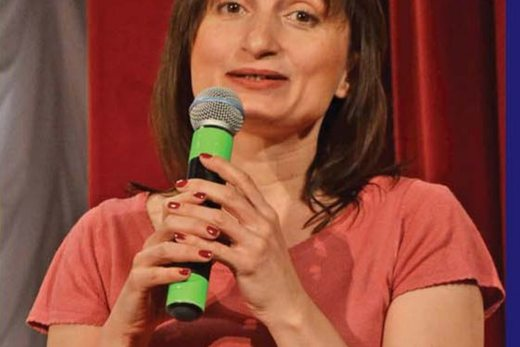
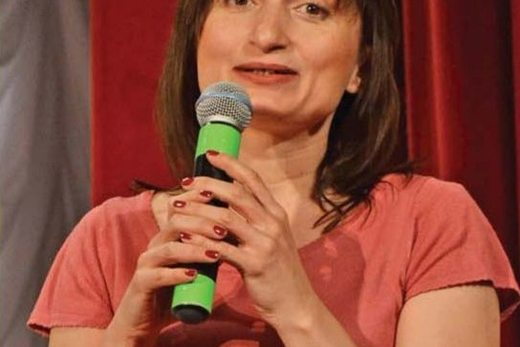
Верифікація ДентАрт 3(72)/2013: виправлено 7 матеріалів
🔴 Зображення з вкрапленим текстом:
- Гюрель: hero був рендер-кропом із впеченим обрізаним заголовком
  («Доктор / «Будьт / і це зр») — замінено чистим витягом растру,
  мініатюру th-540 перегенеровано.
- Алханішвілі: у кадр «Приз» потрапив сам підпис (текст лежить
  усередині rect зображення) — перерізано нижче тексту.

🔴 Фото не на своєму місці:
- Семінар: зріз зубів стояв у секції Фали з підписом «Мікрохірургія
  пародонту», хоча належить секції Болячина — переміщено, alt
  виправлено; слайд «Gallilean Optics» мав чужий alt «Ергономіка».

🔴 Вигадані/зіпсовані alt:
- Алханішвілі: 5 alt стверджували «діти з розладами аутистичного
  спектру», хоча на фото дорослі пацієнти — замінено на нейтральні.
- Пандурич: один alt обрізаний до «і 12. Епітеліальна тканина…»,
  другий порожній — відновлено.

Дрібніше: Алієв — кирилична «А» всередині латинського «Аdentice»;
Дєньга — переносні дефіси «алерго-анамнезом»/«спектро-колориметричні»;
Dent Office і «Пам'яті Ольги Жаури» — зрізано кольорові смужки фону
на кадрах, th-535 перегенеровано.

Заголовок Гюреля «чесні і відкриті» звірено: так на шпальті і в тілі
інтерв'ю; «відверті» стоїть лише у змісті — розбіжність самого журналу.

diff --git a/statti-lazarieva-mizhnarodnyi-vesnianyi-seminar-dentart-2013.html b/statti-lazarieva-mizhnarodnyi-vesnianyi-seminar-dentart-2013.html
@@ -195,7 +195,7 @@ fbq('track', 'PageView');
 <p>На думку лектора, найефективнішим є використання операційного мікроскопа. Автор надає перевагу мікроскопам з оптичною системою Галілея, а це два паралельних незалежних світлових пучки, що плавно змінюють масштаб зображення, сформованого одним об'єктивом. Система вирізняється високою якістю зображення, гарантуючи високу роздільну здатність. І відстань між лінзою та об'єктивом може бути чітко спроектована щодо лікаря.</p>
 <div class="gal">
   <figure><img class="aimg" src="images/sem72-003.jpg" width="586" height="323" loading="lazy" alt="Ергономіка роботи з операційним мікроскопом"></figure>
-  <figure><img class="aimg" src="images/sem72-004.jpg" width="539" height="345" loading="lazy" alt="Ергономіка роботи з операційним мікроскопом"></figure>
+  <figure><img class="aimg" src="images/sem72-004.jpg" width="539" height="345" loading="lazy" alt="Галілеєва оптика операційного мікроскопа"></figure>
 </div>
 <p>Прогрес у використання мікроскопа вніс Гаррі Карр, засновник Тихоокеанського ендодонтичного дослідницького товариства. У 1995 році він розробив правила ергономічної роботи з мікроскопом у чотири руки.</p>
 <p>Мікроскопи можуть бути підлогові, настінні і зі стельовим кріпленням. З підлоговим мікроскопом робота буде менш ергономічною через обмежену мобільність персоналу і устаткування. Доктор Вебер використовує мікроскоп компанії Глобал з необхідними допрацюваннями для асистента, похилим блоком і адаптером для відеозйомки і фотографування.</p>
@@ -213,7 +213,6 @@ fbq('track', 'PageView');
 <p>Використовуючи мікроскоп у хірургічній практиці, можна видаляти під візуальним контролем грануляційну тканину, проводити кюретаж, очищати поверхню операційного поля, ретроградно пломбувати кореневий канал, при резекції верхівки кореня накладати мінімально-інвазивні шви і багато що інше. Лектор продемонстрував кілька клінічних випадків з використанням мікроскопа. Один з них — операція резекції верхівки кореня. На думку доповідача, необхідно проводити зріз верхівки кореня не менше 3 мм, оскільки в цій зоні спостерігається найбільша кількість латеральних канальців, які іноді неможливо побачити навіть під збільшенням. За літературними даними, рекомендовано видаляти ці 3 мм для запобігання ускладненням. Використання мікроскопа і ультразвуку дозволяє максимально точно провести ретроградну обтурацію магістрального каналу МТА. Далі під збільшенням дефект заповнюється кістковопластичним матеріалом і операційна рана закривається стимулятором регенерації — центрифугованою тромбоцитарною масою крові пацієнта. Уже через місяць можна відзначити добрий результат загоєння, і його досягнуто завдяки використанню мікроскопа.</p>
 <div class="gal">
   <figure><img class="aimg" src="images/sem72-006.jpg" width="511" height="374" loading="lazy" alt="Мікрохірургія пародонту зі збільшенням"></figure>
-  <figure><img class="aimg" src="images/sem72-008.jpg" width="501" height="298" loading="lazy" alt="Мікрохірургія пародонту зі збільшенням"></figure>
 </div>
 <p>Клаптеві операції при рецесії ясен навколо зубів та імплантатів, за відсутності зубів, при поглибленні переддвер'я, укороченні вуздечки, подовженні коронкової частини зубів, відкриванні зуба, що не прорізався, треба виконувати з найкращою візуалізацією. За даними клінічних досліджень, кожен циркулярний розріз навіть при здоровому пародонті призводить до втрати 1 мм м'яких тканин. Оптимальних естетичних результатів при хірургічних втручаннях з тонким фенотипом ясен можна досягти лише з найкращою візуалізацією, малоінвазивністю розрізів і точністю швів. І якщо висока прогнозованість результату є нашою метою, використання мікроскопа — одна з важливих умов.</p>
 <h2>Мінімально-інвазивний ендодонтичний доступ у зубах зі складною анатомією</h2>
@@ -222,6 +221,9 @@ fbq('track', 'PageView');
 </div>
 <p>«Коли я почав працювати зі збільшенням — я почав бігати на роботу підстрибом. Тому що мені було цікаво», — почав свою лекцію Олексій БОЛЯЧИН (Москва, Росія), знайомий нашим читачам численними публікаціями і лекціями на семінарах ДентАрт, член Російської ендодонтичної асоціації, Американської ендодонтичної асоціації, Європейської асоціації дентальної мікроскопії, головний редактор журналу «Эндодонтия».</p>
 <p>Збільшення і освітлення відіграють важливу роль в ендодонтичному лікуванні. На сьогодні саме технічне забезпечення і оснащення дає нам певні можливості. Лікар-ендодонтист повинен мати наконечник з підвищуючим редуктором 5:1, оскільки доступ за допомогою турбінного наконечника виконується на швидкості 200 тисяч оборотів і неконтрольовано, і якщо оператор недостатньо досвідчений і не знайомий з анатомією, легко зробити перфорацію. Не можна використовувати турбінний наконечник з бором на довгій ніжці, це призводить до великої втрати тканин зуба. Бори Мюнс Дискавері Бурс/Munce Discovery Burs з робочою довжиною 34 мм можна використовувати в складних клінічних випадках для створення доступу або виконання яких-небудь складних маніпуляцій. Для знаходження устя або додаткових кореневих каналів потрібні два типи зондів: DG-16, D-17. Також необхідно використовувати високоякісні дзеркала, причому ставитися до них як до витратного матеріалу, вчасно змінюючи на нові.</p>
+<div class="gal">
+  <figure><img class="aimg" src="images/sem72-008.jpg" width="501" height="298" loading="lazy" alt="Ендодонтичний доступ під збільшенням"></figure>
+</div>
 <p>Існує кілька головних правил створення доступу до кореневих каналів:</p>
 <ol class="tech">
 <li>Правило колірної зміни — дно завжди темніше, ніж стінки порожнини зуба.</li>

diff --git a/statti-alkhanishvili-stomatolohichne-likuvannia-ditei-autystychnyi-spektr.html b/statti-alkhanishvili-stomatolohichne-likuvannia-ditei-autystychnyi-spektr.html
@@ -192,17 +192,17 @@ fbq('track', 'PageView');
 </ol>
 <p>Прикметно, що кожен випадок РАС має свої власні клінічні характеристики і є абсолютно індивідуальним. Не існує двох людей з РАС, які мали б ідентичні характеристики. Симптоми і когнітивний дефіцит мають варіації залежно від віку пацієнта, серйозності хвороби і її процесу. Причина РАС невідома, хоча часто її зв'язують з порушеннями обміну речовин, стресом у період вагітності і т. д. РАС можна виявити в усіх расах і культурах, і в 4 рази частіше у хлопчиків, ніж у дівчаток.<sup>11</sup> У 2008-2009 роках Асоціація неврологів і нейрохірургів Грузії за фінансової підтримки Грузинського національного наукового фонду провела дослідження «Розлади аутистичного спектру в Грузії: діагностика і епідеміологія». Попереднє дослідження засвідчило, що грузинські епідеміологічні дані не відрізняються від даних з решти світу:<sup>6</sup> поширеність хвороби вища лише на 0,89%.</p>
 <div class="gal g4">
-  <figure><img class="aimg" src="images/aut72-001.jpg" width="498" height="377" loading="lazy" alt="Стоматологічний прийом дитини з розладами аутистичного спектру"></figure>
-  <figure><img class="aimg" src="images/aut72-002.jpg" width="499" height="380" loading="lazy" alt="Стоматологічний прийом дитини з розладами аутистичного спектру"></figure>
-  <figure><img class="aimg" src="images/aut72-003.jpg" width="499" height="380" loading="lazy" alt="Стоматологічний прийом дитини з розладами аутистичного спектру"></figure>
-  <figure><img class="aimg" src="images/aut72-004.jpg" width="498" height="380" loading="lazy" alt="Стоматологічний прийом дитини з розладами аутистичного спектру"></figure>
+  <figure><img class="aimg" src="images/aut72-001.jpg" width="498" height="377" loading="lazy" alt="Стоматологічний прийом"></figure>
+  <figure><img class="aimg" src="images/aut72-002.jpg" width="499" height="380" loading="lazy" alt="Стоматологічний прийом"></figure>
+  <figure><img class="aimg" src="images/aut72-003.jpg" width="499" height="380" loading="lazy" alt="Стоматологічний прийом"></figure>
+  <figure><img class="aimg" src="images/aut72-004.jpg" width="498" height="380" loading="lazy" alt="Стоматологічний прийом"></figure>
 </div>
 <h2>Залучення батьків у процес навчання дитини навичкам гігієни порожнини рота</h2>
 <p>Батьки несуть відповідальність за гігієну порожнини рота дітей до 5-6 років. Гарна гігієна порожнини рота дуже важлива для всього здоров'я дитини. Навички чищення зубів щіткою повинні формуватися, починаючи з віку 2-х років. Процес навчання вимагає великих зусиль. Але діти з РАС і їхні батьки стикаються і з іншими випробуваннями.</p>
 <p>По-перше, ми повинні вибрати зубну щітку, яка б сподобалася дитині. Чищення зубів виконується зазвичай у ванній кімнаті, але спочатку наша мета полягає в тому, щоб сформувати навичку, тому цю процедуру можна проводити у вітальні, на дивані або в будь-якому іншому місці, де дитина почувала б себе комфортно.</p>
 <p>Ми лише торкаємося зубною щіткою губ дитини — таким чином даємо їй можливість звикнути до щітки. Імовірно, нам також доведеться вчити дитину відкривати рот. Нам слід підібрати зубну пасту, яка б відповідала дитячому смаку. Пасти для дітей часто мають смак полуниці, малини або жувальної гумки, що сподобається дитині.</p>
 <div class="gal">
-  <figure><img class="aimg" src="images/aut72-005.jpg" width="494" height="617" loading="lazy" alt="Стоматологічний прийом дитини з розладами аутистичного спектру"></figure>
+  <figure><img class="aimg" src="images/aut72-005.jpg" width="494" height="617" loading="lazy" alt="Стоматологічний прийом"></figure>
 </div>
 <p>Нам треба продемонструвати, як дитина повинна чистити зуби. Такі візуальні демонстрації допоможуть побудувати позитивні стосунки. Біхевіористи вважають це найефективнішим методом навчання. Ми також можемо дозволити дитині почистити нам зуби.</p>
 <p>Спочатку ми самі повинні чистити дитині зуби. Станьте перед дитиною так, щоб її голова була на ваших грудях, видавіть на центр щітки зубну пасту величиною з горошину і робіть такі ж самі рухи щіткою, якими ви чистите свої власні зуби.</p>
@@ -254,7 +254,7 @@ fbq('track', 'PageView');
 <li>Соціальне підкріплення (усмішка, похвала, нагорода).</li>
 </ol>
 <div class="galc">
-  <figure><img class="aimg" src="images/aut72-014.jpg" width="500" height="473" loading="lazy" alt="Приз"><figcaption>Приз</figcaption></figure>
+  <figure><img class="aimg" src="images/aut72-014.jpg" width="500" height="419" loading="lazy" alt="Приз"><figcaption>Приз</figcaption></figure>
 </div>
 <p>Слід звернути увагу на те, що не існує універсального підкріплення. Його ефективність залежить від віку, культури, минулого досвіду, інтересу та інших чинників, тому підкріплення має бути доречним і обмеженим.</p>
 <p>Згідно з дослідженням, проведеним у США, результат лікування і процесу поведінкового навчання, досягнутий без використання підкріплення, є неефективним.<sup>13</sup> 95% американських стоматологів, котрі працюють з дітьми-аутистами, використовують стратегії управління поведінкою за допомогою підкріплення.<sup>9</sup></p>

diff --git a/statti-pryzma-chempion-ukrainy-2013-roman-aliiev.html b/statti-pryzma-chempion-ukrainy-2013-roman-aliiev.html
@@ -173,7 +173,7 @@ fbq('track', 'PageView');
 <div class="art-hero"><img src="images/pchua72-000.jpg" width="433" height="341" alt="Роман Алієв, селище Старобешеве Донецької обл." decoding="async" style="max-width:420px;margin:0 auto"></div>
 <blockquote class="pull">Тільки точне прекрасне<br><span style="font-style:normal;font-size:.86rem">Нікола Буало, французький поет, теоретик класицизму</span></blockquote>
 <div class="art-body">
-<p class="lead">Ось уже вдвадцяте у клініці-студії «Аполлонія» у Полтаві стоматологи України змагаються в мистецтві повертати пацієнтам здоров'я і радість красивої усмішки. Український фінал Призма-чемпіонату 2013, який відбувся 12 травня, мав визначити переможця серед чотирьох професіоналів, уже відомих стоматологічній спільноті. Це Роман Алієв із селища Старобешеве Донецької області (стоматологічна клініка «Аллюро»), Валерія Носко з Донецька (ПП «ПС Ласка»), Ірина Перепьолкіна і Михайло Лісняк, обоє з Дніпродзержинська (клініка стоматологічного здоров'я «Аdentice»).</p>
+<p class="lead">Ось уже вдвадцяте у клініці-студії «Аполлонія» у Полтаві стоматологи України змагаються в мистецтві повертати пацієнтам здоров'я і радість красивої усмішки. Український фінал Призма-чемпіонату 2013, який відбувся 12 травня, мав визначити переможця серед чотирьох професіоналів, уже відомих стоматологічній спільноті. Це Роман Алієв із селища Старобешеве Донецької області (стоматологічна клініка «Аллюро»), Валерія Носко з Донецька (ПП «ПС Ласка»), Ірина Перепьолкіна і Михайло Лісняк, обоє з Дніпродзержинська (клініка стоматологічного здоров'я «Adentice»).</p>
 <p>Журі у складі голови Таїси Скрипнікової, Тетяни Петрушанко, Станіслава Гераніна (УМСА, м. Полтава), Наталії Савости (клініка-студія «Аполлонія», м. Полтава), Олексія Болячина (ФПДО МДМСУ, м. Москва, Росія) визнало найліпшою реставрацію Романа Алієва і назвало його Призма-чемпіоном України 2013 р.</p>
 <div class="galc">
   <figure><img class="aimg" src="images/pchua72-001.jpg" width="509" height="269" loading="lazy" alt="до реставрації"><figcaption>до реставрації</figcaption></figure>

diff --git a/statti-pamiati-olhy-zhaury.html b/statti-pamiati-olhy-zhaury.html
@@ -170,8 +170,8 @@ fbq('track', 'PageView');
 <p>У травні вона виступала на весняному семінарі ДентАрт, як завжди, зібрана і цілеспрямована, доброзичлива і усміхнена. І лише вона одна знала безжальну таємницю, котра розверзлася, немов прірва, уже через два місяці. 10 липня птахом відлетіла у Вічність душа Ольги Жаури, менеджера з роботи зі стоматологами компанії «Орал-Бі». Та, котра допомагала запобігати багатьом недугам і лікувати їх, померла від хвороби, перед якою медицина і сьогодні ще безсила. Мужності і самовладанню цієї жінки хочеться вклонитися.</p>
 <p>Провести Ольгу Жауру в останню дорогу у Дніпропетровськ приїхали люди з різних міст, знайомі і не знайомі одне з одним. Тому що Ольга була яскравим прикладом людини, котра знаходить друзів-партнерів собі і фірмі завдяки високим людським і діловим якостям. Говорить Наталя Синіцина, директор клініки-студії «Аполлонія»:</p>
 <div class="gal">
-  <figure><img class="aimg" src="images/mem72-001.jpg" width="299" height="442" loading="lazy" alt="Ольга Жаура"></figure>
-  <figure><img class="aimg" src="images/mem72-002.jpg" width="562" height="826" loading="lazy" alt="Ольга Жаура"></figure>
+  <figure><img class="aimg" src="images/mem72-001.jpg" width="276" height="442" loading="lazy" alt="Ольга Жаура"></figure>
+  <figure><img class="aimg" src="images/mem72-002.jpg" width="544" height="819" loading="lazy" alt="Ольга Жаура"></figure>
 </div>
 <p>— Оля була особистістю, з якою хочеться мати справу. Оргкомітет семінару ДентАрт завжди відчував з її боку величезну підтримку і цілковите розуміння. Спокійна, доброзичлива, знає свою справу — такою запам'ятали її сотні стоматологів України, країн СНД, Балтії. На наших очах відбувалося її знайомство з лікарями-стоматологами, вона їх розуміла, допомагала порадою і ділом. Зустрічі з Ольгою Жаурою завжди були святом — святом спілкування з розумною, талановитою людиною, надійним партнером. Вічна пам'ять світлій людині!</p>
 <p>…Донька Ольги Жаури Яна — талановита поетеса. У збірнику її віршів «Книга безсонних ночей» є такі рядки:</p>

diff --git a/statti-panduryc-izoliatsiia-pisliaoperatsiinykh-ran-parodontalna-poviazka-rezo-pak.html b/statti-panduryc-izoliatsiia-pisliaoperatsiinykh-ran-parodontalna-poviazka-rezo-pak.html
@@ -216,8 +216,8 @@ fbq('track', 'PageView');
   <figure><img class="aimg" src="images/pan72-008.jpg" width="500" height="288" loading="lazy" alt="Через 3 дні."><figcaption>Фото 8. Через 3 дні.</figcaption></figure>
   <figure><img class="aimg" src="images/pan72-009.jpg" width="500" height="288" loading="lazy" alt="Операційна зона відразу після зняття швів."><figcaption>Фото 9. Операційна зона відразу після зняття швів.</figcaption></figure>
   <figure><img class="aimg" src="images/pan72-010.jpg" width="500" height="289" loading="lazy" alt="Накладання пародонтальної пов'язки Резо-Пак, 14-й день після операції."><figcaption>Фото 10. Накладання пародонтальної пов'язки Резо-Пак, 14-й день після операції.</figcaption></figure>
-  <figure><img class="aimg" src="images/pan72-011.jpg" width="500" height="288" loading="lazy" alt="і 12. Епітеліальна тканина закрила післяопераційну ділянку."><figcaption>Фото 11 і 12. Епітеліальна тканина закрила післяопераційну ділянку.</figcaption></figure>
-  <figure><img class="aimg" src="images/pan72-012.jpg" width="501" height="289" loading="lazy" alt=""></figure>
+  <figure><img class="aimg" src="images/pan72-011.jpg" width="500" height="288" loading="lazy" alt="Епітеліальна тканина закрила післяопераційну ділянку."><figcaption>Фото 11 і 12. Епітеліальна тканина закрила післяопераційну ділянку.</figcaption></figure>
+  <figure><img class="aimg" src="images/pan72-012.jpg" width="501" height="289" loading="lazy" alt="Епітеліальна тканина закрила післяопераційну ділянку."></figure>
   <figure><img class="aimg" src="images/pan72-013.jpg" width="740" height="426" loading="lazy" alt="Клінічна картина через 8 днів після застосування пародонтальної пов'язки Резо-Пак."><figcaption>Фото 13. Клінічна картина через 8 днів після застосування пародонтальної пов'язки Резо-Пак.</figcaption></figure>
   <figure><img class="aimg" src="images/pan72-014.jpg" width="500" height="289" loading="lazy" alt="На 10-й день застосування пов'язки встановлено тимчасову реставрацію."><figcaption>Фото 14. На 10-й день застосування пов'язки встановлено тимчасову реставрацію.</figcaption></figure>
 </div>

diff --git a/statti-denha-hostryi-hlybokyi-kariies-biodentyn-alerhoanamnez.html b/statti-denha-hostryi-hlybokyi-kariies-biodentyn-alerhoanamnez.html
@@ -172,7 +172,7 @@ fbq('track', 'PageView');
 </div>
       </div>
 <div class="abstract">
-<div class="row"><div class="lbl">Резюме</div><div>Запропонований алгоритм лікування гострого глибокого карієсу з використанням матеріалу Біодентин (Септодонт, Франція) у пацієнтів з обтяженим алерго-анамнезом. Клінічні спостереження проведено у 40 пацієнтів, проліковано по 30 молярів нижньої щелепи в кожній групі. Клініко-рентгенологічні та спектро-колориметричні спостереження підтвердили переваги обраного методу лікування у цього контингенту стоматологічних пацієнтів.</div></div>
+<div class="row"><div class="lbl">Резюме</div><div>Запропонований алгоритм лікування гострого глибокого карієсу з використанням матеріалу Біодентин (Септодонт, Франція) у пацієнтів з обтяженим алергоанамнезом. Клінічні спостереження проведено у 40 пацієнтів, проліковано по 30 молярів нижньої щелепи в кожній групі. Клініко-рентгенологічні та спектроколориметричні спостереження підтвердили переваги обраного методу лікування у цього контингенту стоматологічних пацієнтів.</div></div>
 <div class="row"><div class="lbl">Ключові слова</div><div>обтяжений алергоанамнез, гострий глибокий карієс, Біодентин.</div></div>
 <div class="row"><div class="lbl">Abstract</div><div class="en">Acute deep caries treatment with a step-by-step approach for patients with a compromised allergic history using Biodentine™ (Septodont) is suggested. The clinical observations were performed on 40 patients. Thirty mandibular molars were treated in each group. The use of clinical-radiological and spectro-colorimetric techniques demonstrated the advantages of the chosen method of treatment in these patients.</div></div>
 <div class="row"><div class="lbl">Key words</div><div class="en">clinical effectiveness of acute deep caries treatment, history of allergy, Biodentine.</div></div>

diff --git a/statti-interviu-halip-hiurel.html b/statti-interviu-halip-hiurel.html
@@ -165,7 +165,7 @@ fbq('track', 'PageView');
         <p class="en-title"></p>
 
       </div>
-<div class="art-hero"><img class="aimg" src="images/gur72-001.jpg" width="725" height="970" alt="Доктор Галіп Гюрель" decoding="async" style="max-width:460px;margin:0 auto"></div>
+<div class="art-hero"><img class="aimg" src="images/gur72-001.jpg" width="980" height="712" alt="Доктор Галіп Гюрель" decoding="async"></div>
 <p class="standfirst">17 років тому доктор Галіп Гюрель заснував Турецьку академію естетичної стоматології. У 2011-2012 роках він був президентом Європейської академії естетичної стоматології, і тепер це звання носитиме довічно. Стоматологи різних країн приїжджають на курси в його «Галіп Гюрель Стаді Клаб» у Стамбулі, щоб навчитися підкорювати нові вершини майстерності.<br><br>Президент Української академії естетичної стоматології Сергій Радлінський зустрівся з колегою — відомим лектором, запрошеним професором університетів Нью-Йорка, Марселя і Стамбула — на традиційному щорічному конгресі ЄАЕС «Весняні зустрічі», який відбувся наприкінці травня на Криті. Розмова, як можуть переконатися читачі, вийшла багатоплановою і цікавою.</p>
 <div class="art-body">
 <h2>«Мене веде усе моє життя бажання пізнавати нове»</h2>

diff --git a/statti-interier-stomatolohichnoi-kliniky-dent-office-tbilisi.html b/statti-interier-stomatolohichnoi-kliniky-dent-office-tbilisi.html
@@ -166,12 +166,12 @@ fbq('track', 'PageView');
 
       </div>
 <div class="art-hero">
-<img class="aimg" src="images/dof72-002.jpg" width="981" height="757" alt="Стоматологічна клініка «Dent Office», Тбілісі, Грузія" decoding="async">
+<img class="aimg" src="images/dof72-002.jpg" width="981" height="743" alt="Стоматологічна клініка «Dent Office», Тбілісі, Грузія" decoding="async">
 </div>
 <p class="standfirst">Стоматологічна клініка "Dent Office", Тбілісі, Грузія</p>
 <div class="art-body">
 <div class="gal">
-  <figure><img class="aimg wide" src="images/dof72-001.jpg" width="981" height="317" loading="lazy" alt="Стоматологічна клініка «Dent Office», Тбілісі, Грузія"></figure>
+  <figure><img class="aimg wide" src="images/dof72-001.jpg" width="981" height="312" loading="lazy" alt="Стоматологічна клініка «Dent Office», Тбілісі, Грузія"></figure>
   <figure><img class="aimg" src="images/dof72-003.jpg" width="981" height="690" loading="lazy" alt="Стоматологічна клініка «Dent Office», Тбілісі, Грузія"></figure>
 </div>
 </div>
